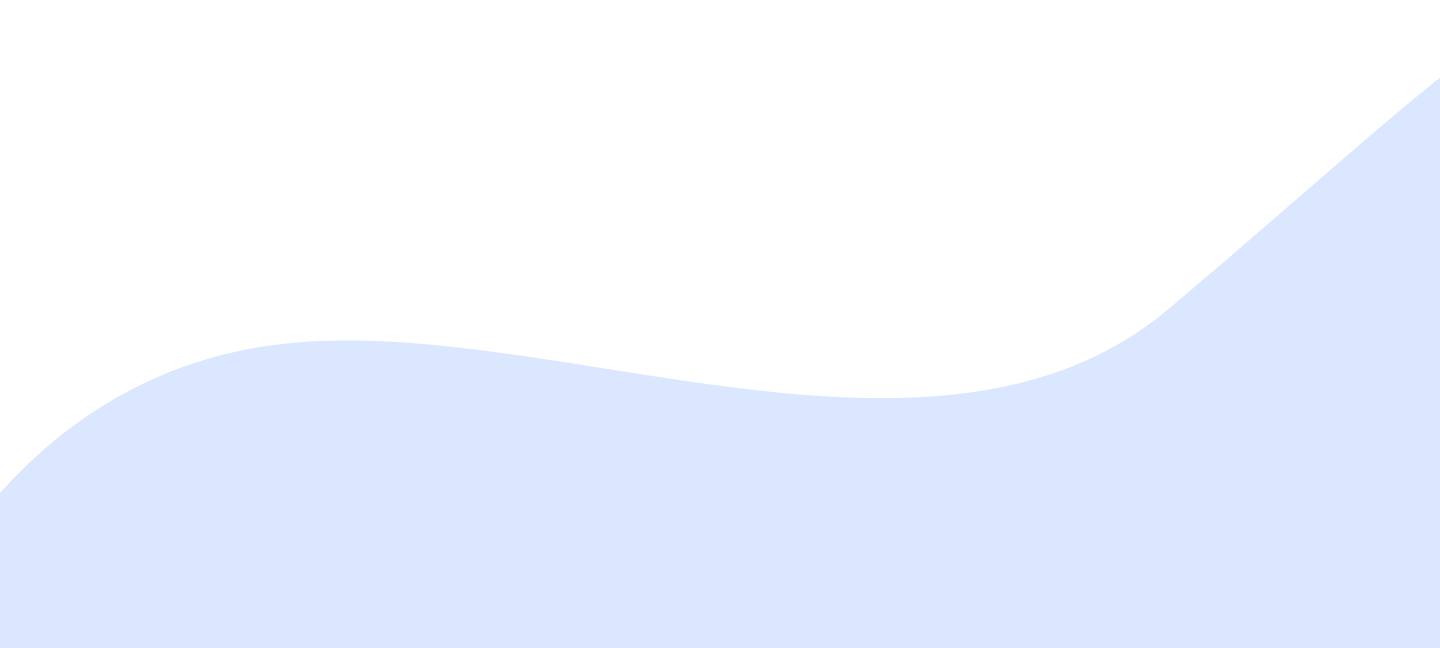
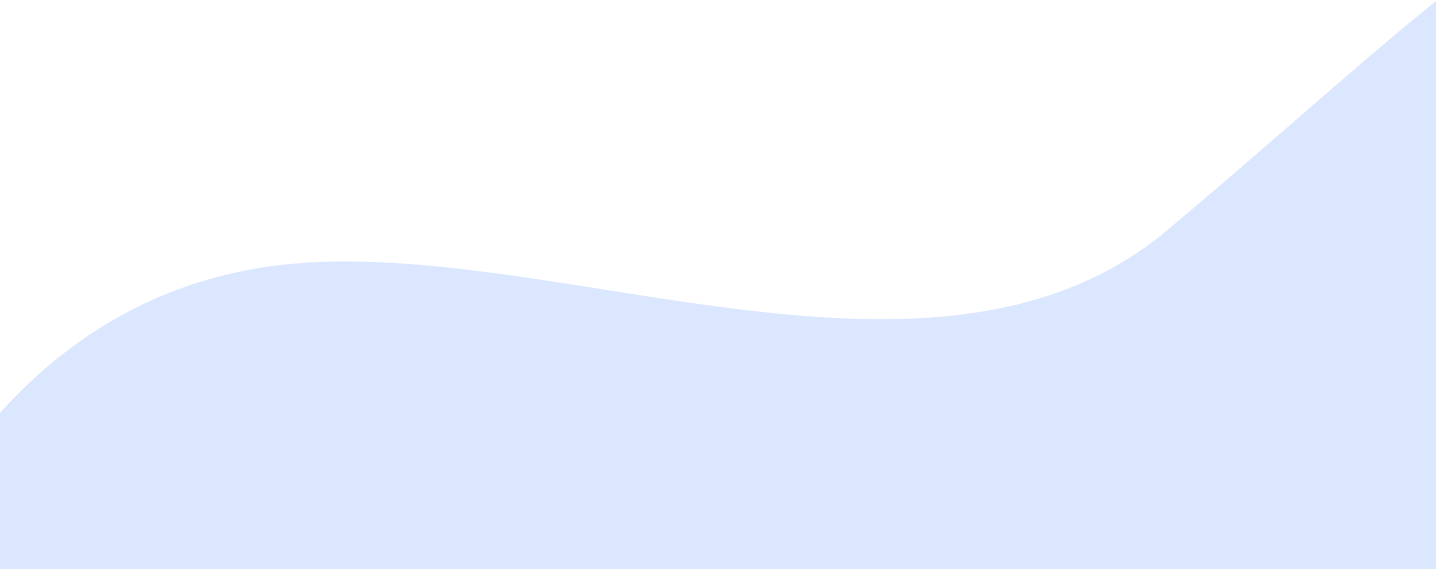
:hammer: chore: update footer image

Changed region(s): [[0.0, 0.0, 1.0, 0.7469]]

diff --git a/web/src/components/Footer/index.tsx b/web/src/components/Footer/index.tsx
@@ -6,7 +6,7 @@ const Footer: React.FC = () => {
   return (
     <St.Container>
       <St.ImageContainer>
-        <St.ImageBackground src={'/vectors/footer2.png'} unsized={true} />
+        <St.ImageBackground src={'/vectors/footer.png'} unsized={true} />
       </St.ImageContainer>
       <St.OptionContainer>
         <St.ButtonBlock>
